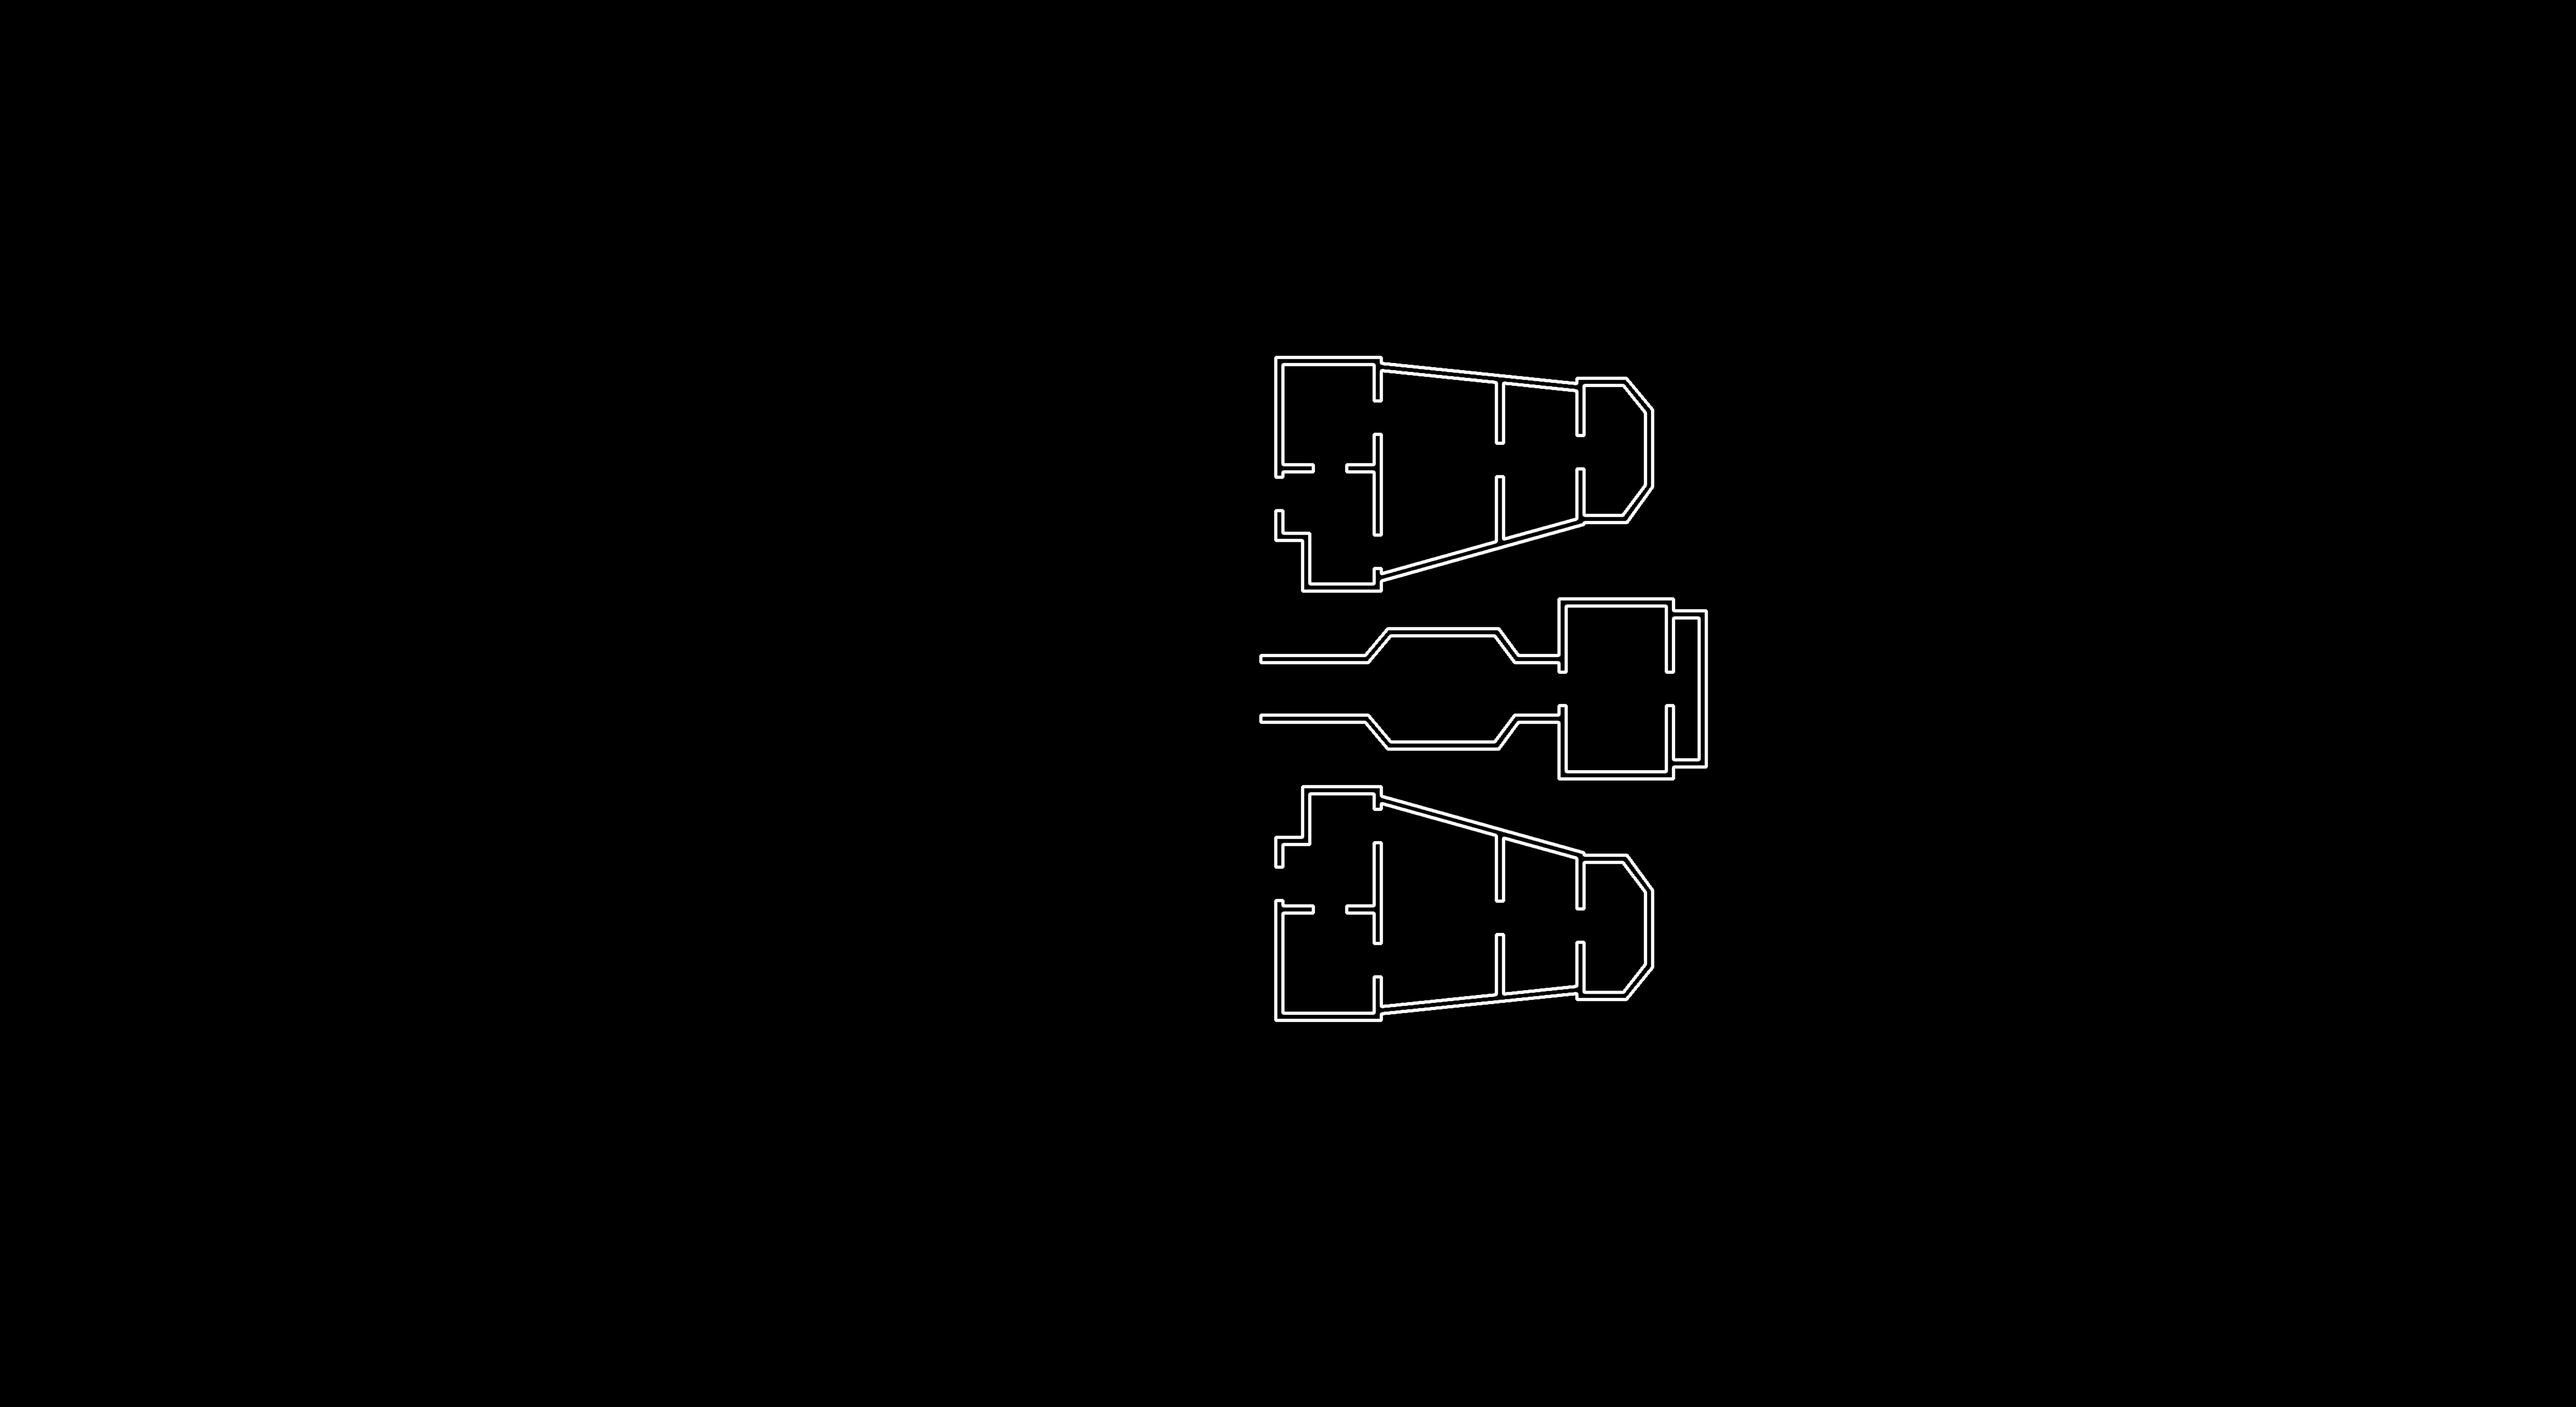
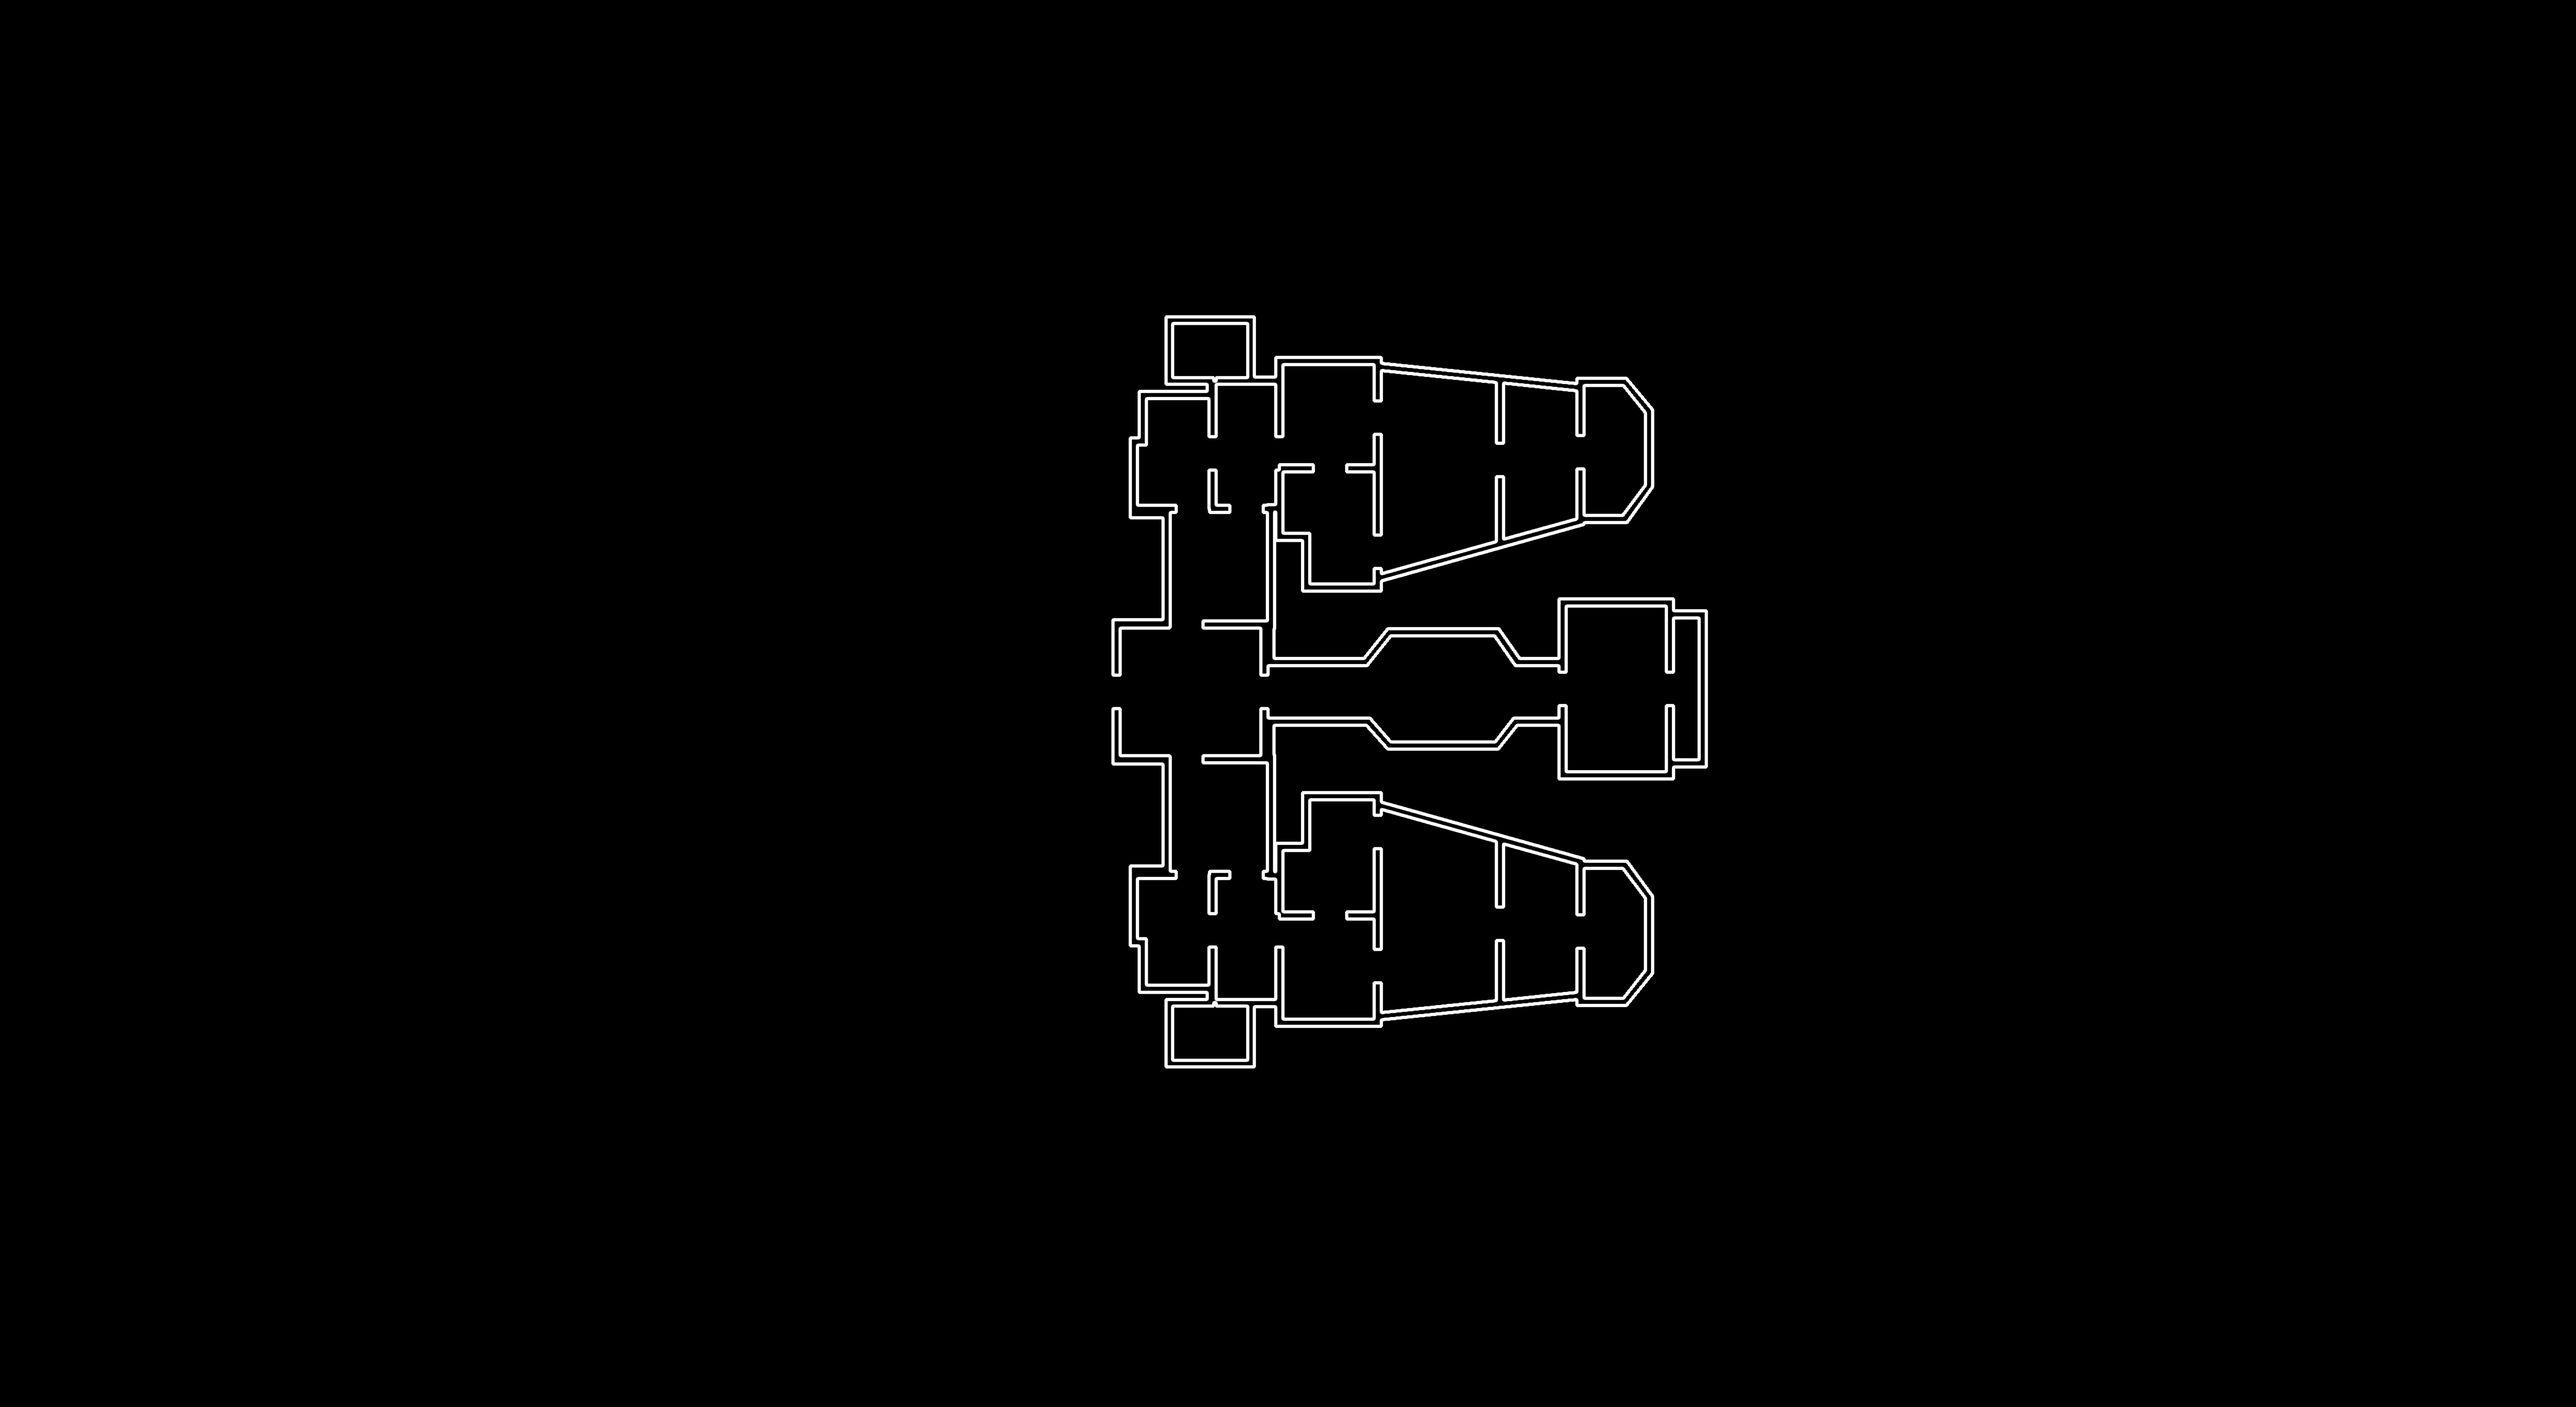
v13.33: Tianjin main deck section 2
Claude-Session: https://claude.ai/code/session_01SinQW9aeLHqCBjq9e21Gyo

diff --git a/web_shell.html b/web_shell.html
@@ -4,8 +4,8 @@
 <meta charset="utf-8">
 <meta name="viewport" content="width=device-width,initial-scale=1,maximum-scale=1,user-scalable=no,viewport-fit=cover">
 <meta name="theme-color" content="#f6f9fc">
-<meta name="hl-version" content="v13.32">
-<title>Homelancer Digital v13.32</title>
+<meta name="hl-version" content="v13.33">
+<title>Homelancer Digital v13.33</title>
 <style>
 *{box-sizing:border-box}
 html,body{margin:0;width:100%;height:100%;background:#f6f9fc;color:#0e2f5a;font:16px system-ui,sans-serif;overflow:hidden;touch-action:none}

diff --git a/tools/trace/ship_tianjin_03/eng/build_main_deck.py b/tools/trace/ship_tianjin_03/eng/build_main_deck.py
@@ -10,7 +10,7 @@ from shapely.ops import unary_union, substring
 from shapely import affinity
 
 HERE = os.path.dirname(os.path.abspath(__file__))
-CY, T, DOOR = 1155.0, 12.0, 56.0
+CY, T, DOOR = 1160.0, 12.0, 56.0   # mirror line from paired rooms (548/1782, 649/1681)
 def mirror(g): return affinity.scale(g, yfact=-1, origin=(0, CY))
 def wall(p0, p1, doors=()):
     L = LineString([p0, p1]); cuts = [0.0]
@@ -32,12 +32,26 @@ corridor = unary_union([LineString([(2120, CY), (2625, CY)]).buffer(50, cap_styl
 bay = unary_union([box(2620, 1010, 2800, 1300), box(2800, 1030, 2855, 1280)])
 bay_walls = [wall((2620, 1010), (2620, 1300), [145]), wall((2800, 1030), (2800, 1280), [125])]
 
-floor = unary_union([pod, mirror(pod), corridor, bay])
+# ---- section 2: the room column between the pods and the CIC (boxes measured on the x4 deck, top half; mirrored)
+G = 11   # half the wall gap between neighbouring rooms: rooms grow to the wall centre line
+rooms2 = [box(1972, 548, 2086, 627), box(2041, 649, 2134, 841), unary_union([box(1927, 673, 2025, 760), box(1912, 751, 2022, 851)]),
+          box(1967, 861, 2120, 1037)]
+centre = box(1883, 1056, 2119, 2 * CY - 1056)
+col = unary_union([r.buffer(G, join_style=2) for r in rooms2])
+col = unary_union([col, mirror(col), centre.buffer(G, join_style=2)])
+s2_walls = [wall((1901, 638), (2150, 638), [109]),                 # escape-pod room / lobby row, door into the side room
+            wall((2033, 638), (2033, 853), [122]),                 # side room / lobby
+            wall((1901, 853), (2150, 853), [99, 189]),             # to the ready room
+            wall((1872, 1047), (2131, 1047), [117]),               # ready room / centre room
+            wall((2145, 638), (2145, 853), [122])]                 # lobby / pod (the pod's aft door)
+s2_walls = s2_walls + [mirror(w) for w in s2_walls] + [
+            wall((2120, 1047), (2120, 2 * CY - 1047), [CY - 1047]),   # centre room / forward corridor
+            wall((1872, 1047), (1872, 2 * CY - 1047), [CY - 1047])]   # centre room / CIC (next section)
+floor = unary_union([pod, mirror(pod), corridor, bay, col])
 walls = floor.buffer(T / 2, join_style=2).difference(floor.buffer(-T / 2, join_style=2))
-inner = unary_union(pod_walls + [mirror(w) for w in pod_walls] + bay_walls)
+inner = unary_union(pod_walls + [mirror(w) for w in pod_walls] + bay_walls + s2_walls).intersection(floor.buffer(T / 2, join_style=2))   # no stubs outside
 walls = unary_union([walls, inner])
-for o in [box(2100, CY - 44, 2128, CY + 44),                          # corridor runs on aft (next section)
-          box(2130, 800, 2160, 856), mirror(box(2130, 800, 2160, 856))]:   # pod doors aft (next section)
+for o in [box(1855, CY - DOOR / 2, 1890, CY + DOOR / 2)]:            # centre room opens aft into the CIC (next section)
     walls = walls.difference(o)
 
 src = cv2.imread(os.path.join(HERE, "..", "part_main_deck_x4.jpg")); H, W = src.shape[:2]
@@ -52,6 +66,7 @@ for im in (plan, ov): cv2.drawContours(im, cs, -1, (255, 255, 255), 3, cv2.LINE_
 cv2.imwrite(os.path.join(HERE, "main_plan.png"), plan)
 cv2.imwrite(os.path.join(HERE, "main_plan_on_map.jpg"), ov, [cv2.IMWRITE_JPEG_QUALITY, 88])
 cv2.imwrite(os.path.join(HERE, "main_plan_section1.jpg"), ov[520:1800, 1900:2950], [cv2.IMWRITE_JPEG_QUALITY, 90])
+cv2.imwrite(os.path.join(HERE, "main_s2_big.jpg"), cv2.resize(ov[500:1830, 1820:2340], None, fx=1.6, fy=1.6, interpolation=cv2.INTER_CUBIC), [cv2.IMWRITE_JPEG_QUALITY, 90])
 json.dump({"units": "x4 main-deck px", "mirror_y": CY, "thickness": T, "door": DOOR, "floor": mapping(floor), "walls": mapping(walls)},
           open(os.path.join(HERE, "main_plan.json"), "w"))
 print("ok")

diff --git a/docs/V1.2_BUILD.md b/docs/V1.2_BUILD.md
@@ -2178,3 +2178,6 @@ the camera automatically does a zoom to that section ... helmet, body, lower bod
 
 ## v13.32 — Tianjin big close-ups (no game change)
 - Owner: lost detail, zoom in big on both. tower_on_exterior_big.jpg (vector plan drawn crisp on a 6x close-up of the tower block), main_s1_pod_big.jpg and main_s1_bay_big.jpg.
+
+## v13.33 — Tianjin main deck, section 2 (no game change)
+- Room column between the pods and the CIC: escape-pod room, lobby into each pod, side room, ready room, and the centre room on the main axis (door forward into the corridor, door aft into the CIC). Rooms measured as boxes on the x4 deck, grown to shared wall centre lines, mirrored about y=1160; inner walls clipped to the floor. main_s2_big.jpg.
